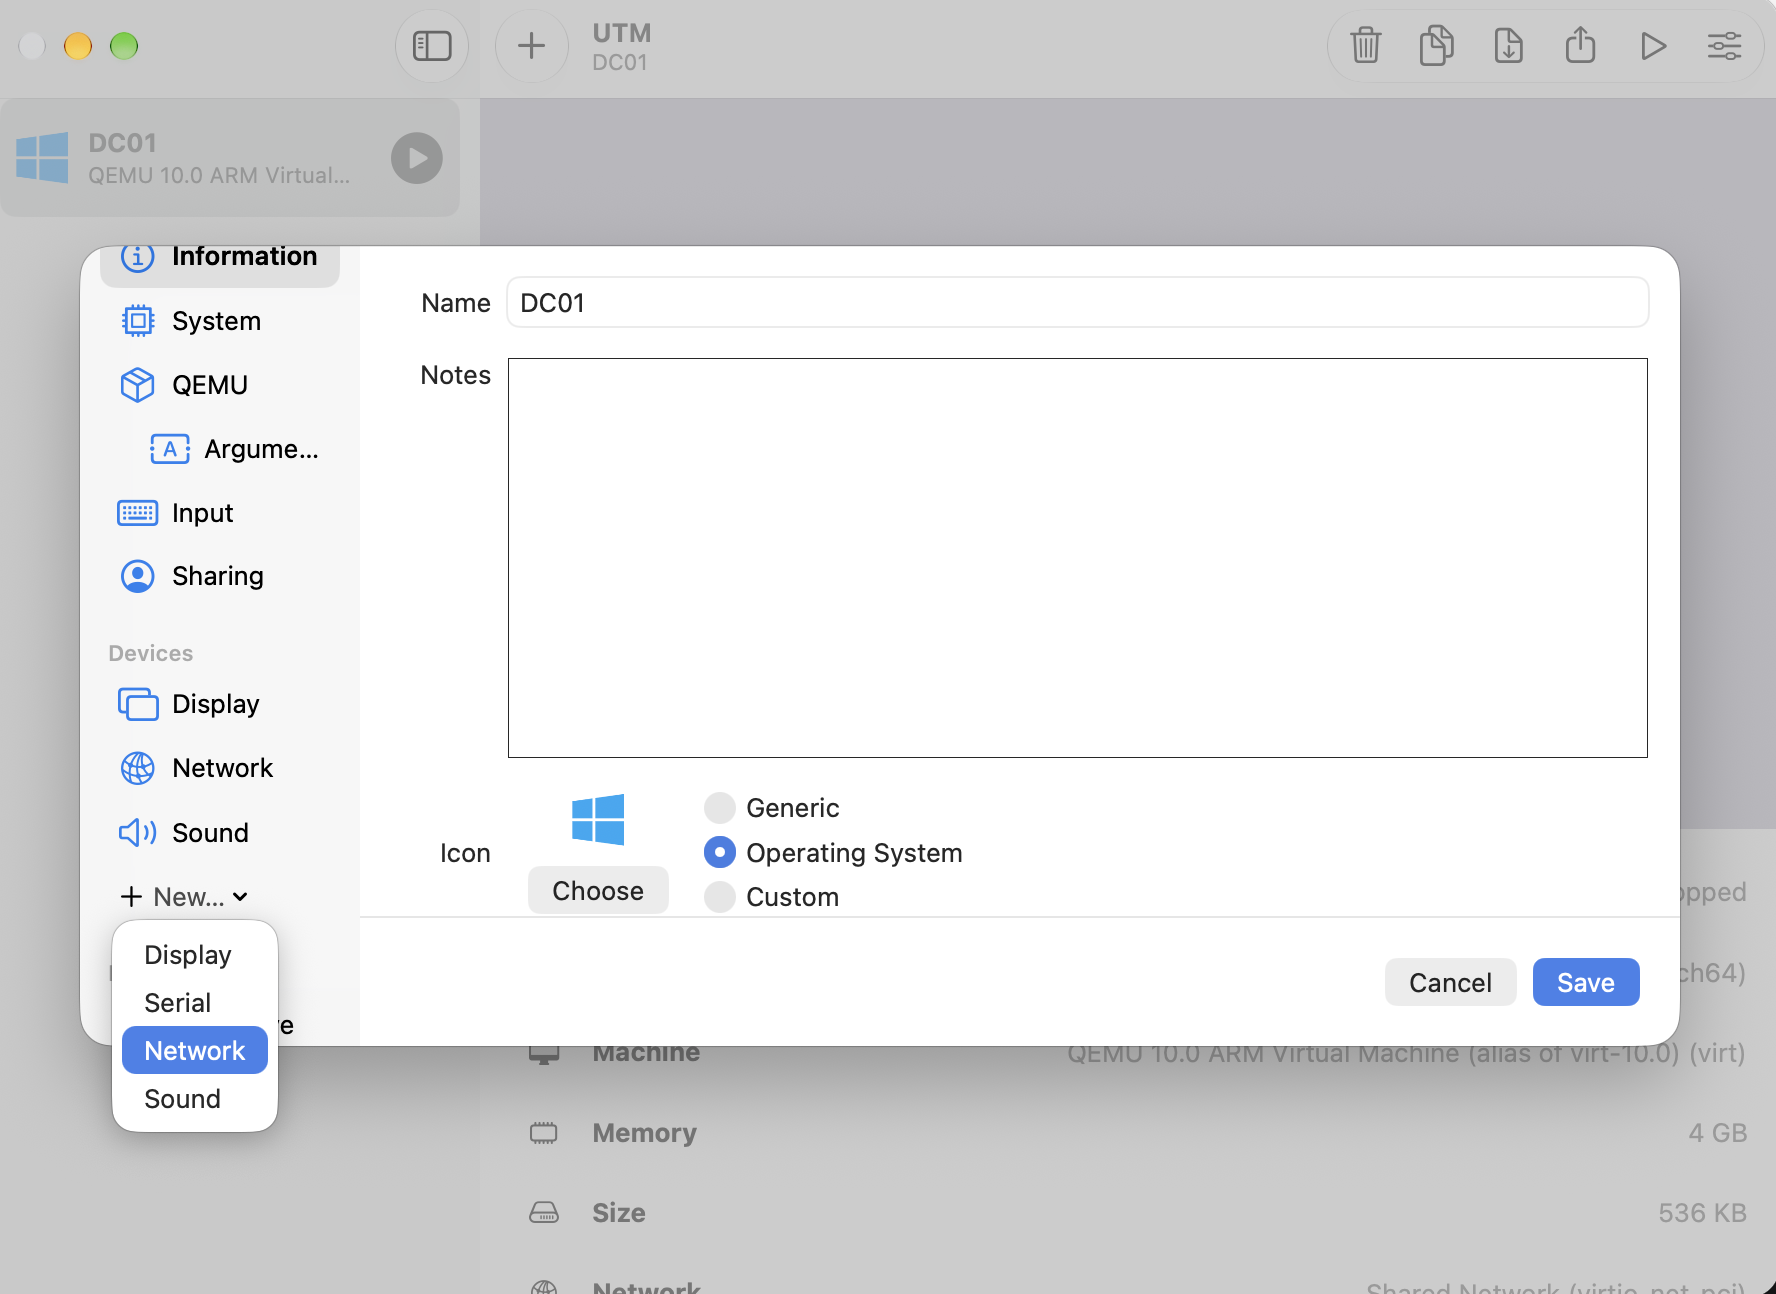
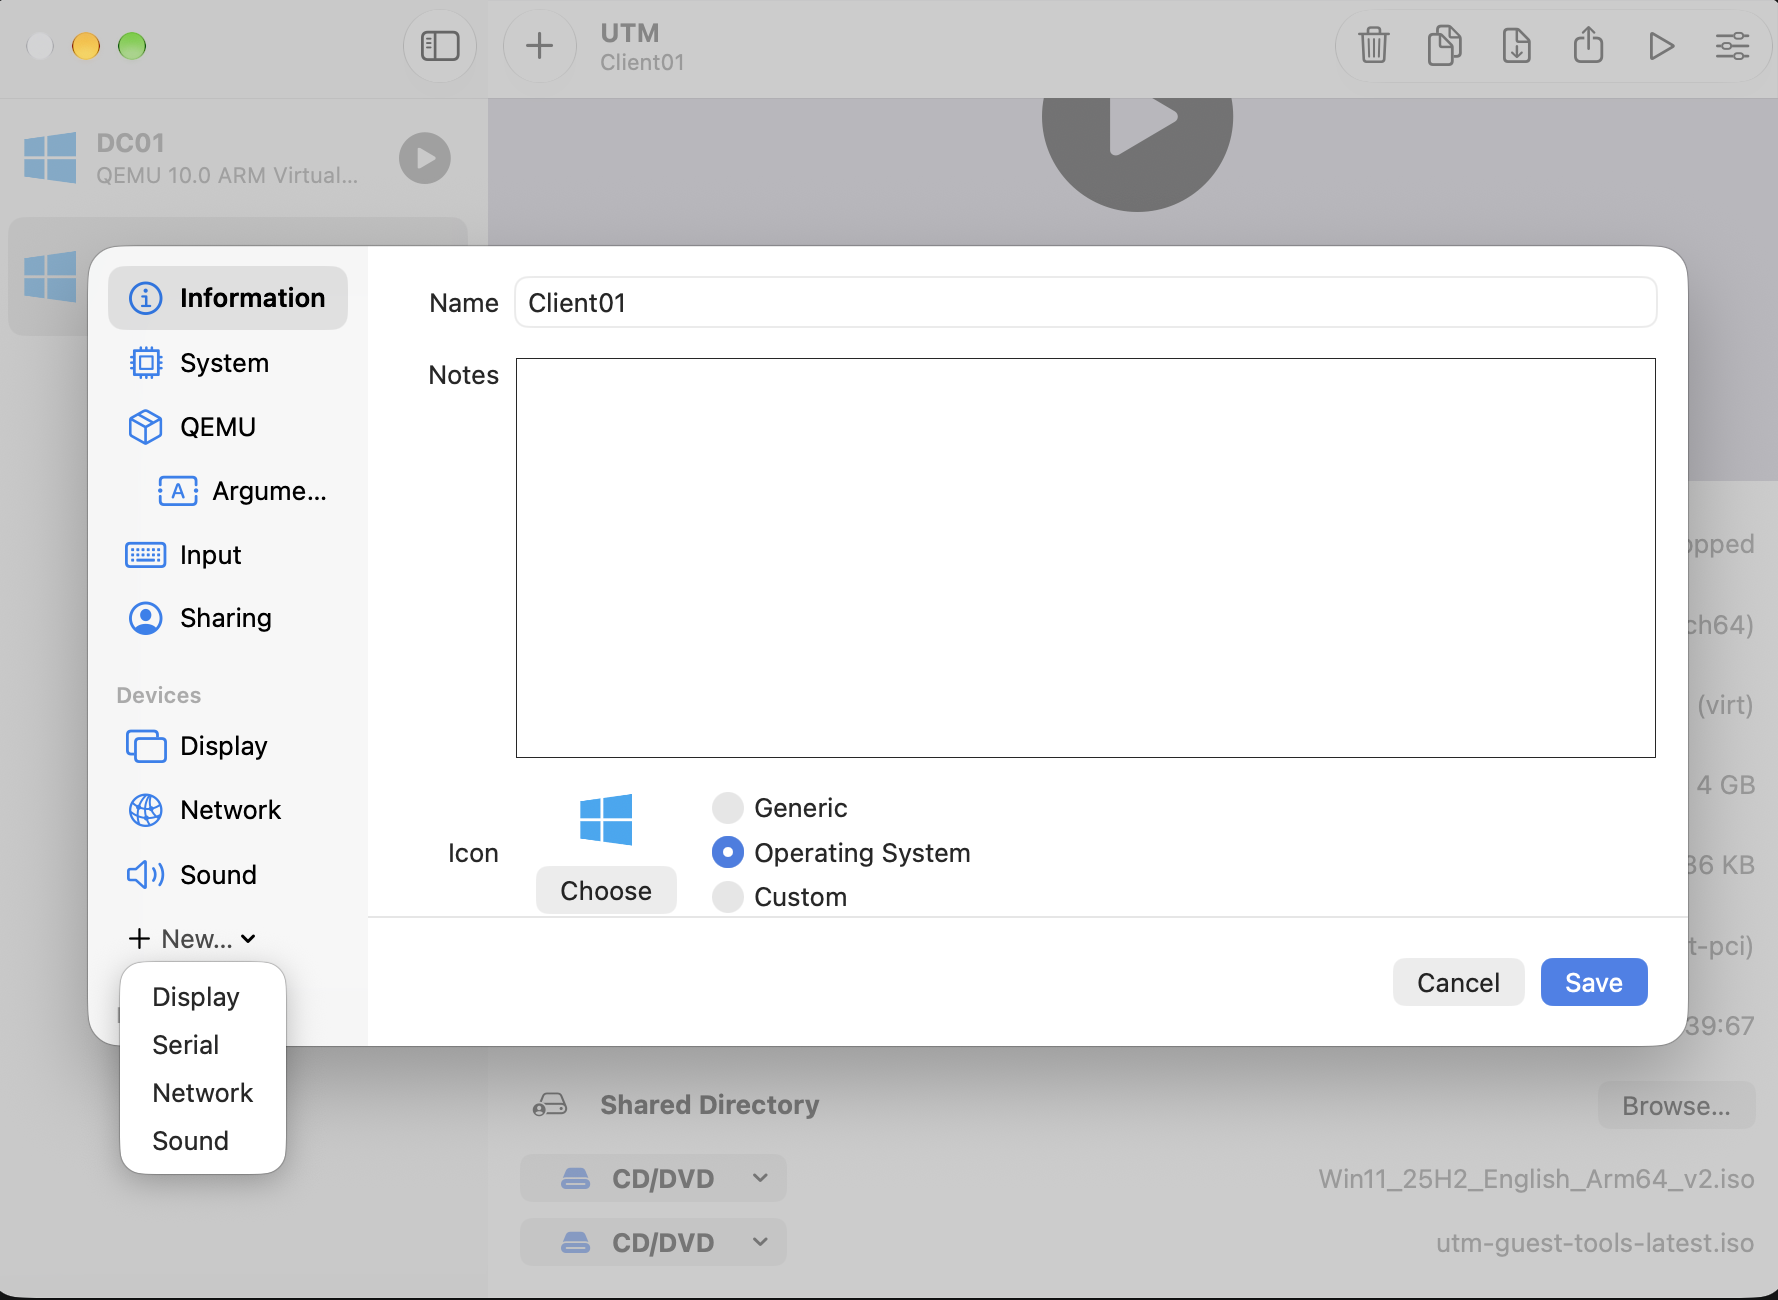
Update README

diff --git a/README.md b/README.md
@@ -16,6 +16,7 @@ This project demonstrates the process of creating and setting up an Active Direc
 ## VM Creation
 Both virtual machines were created using UTM with nearly identical hardware specifications, with the exception of storage capacity. The virtual machines also differ in the operating system ISO used for installation and their respective machine names, with one configured as the Domain Controller and the other as the Windows client. The following steps were performed to create each machine:
 
+
 ### Domain Controller
 
 1. Select **Create a New Virtual Machine**.
@@ -73,29 +74,32 @@ The same VM creation process was used for the Windows client, with differences i
 ## Server Configuration
 
 ### Windows Installation
-Once the virtual machine was configured, Windows Server 2025 was installed using the default installation settings. Additionally, the UTM Windows Guest Tools were installed to improve performance and display resolution, although their installation is not required.
+Once the virtual machine was configured, `Windows Server 2025` was installed using the default installation settings. Additionally, the UTM Windows Guest Tools were installed to improve performance and display resolution, although their installation is not required.
 
-### Rename Server
-After installing Windows Server 2025, the server was assigned a hostname that identifies its role as the Domain Controller. To avoid confusion, the server was given the same name as the virtual machine it is operating in, `DC01`.
+
+### Server Hostname Configuration
+After installing Windows, the server was assigned a hostname that identifies its role as the Domain Controller. To avoid confusion, the server was given the same name as the virtual machine it is operating in, `DC01`.
 
 The hostname was configured through **Server Manager → Local Server → Computer name → Change**. After renaming the server, the computer was restarted to apply the changes made. 
 
-![Server Rename](/images/server-configuration/server-namechange/01-server-rename.png)
+![Server rename](/images/server-configuration/server-namechange/01-server-rename.png)
+
 
 ### Network Configuration 
 
 Following the assignment of a new hostname, the server was configured with a static IP address. The network configuration was accessed through **Server Manager → Local Server** by selecting **IPv4 address assigned by DHCP, IPv6 enabled** next to **Ethernet**.
 
 ![Network connections window](/images/server-configuration/network-config/01-network-connections.png)
-*As mentioned earlier, the virtual machine was configured with two network adapters: one for communication between the devices and another for internet access. Ethernet 2 was configured with the **Host Only** network mode and was therefore selected for the static IP configuration.*
+*As mentioned earlier, the VM was configured with two network adapters: one for communication between the virtual machines and another for internet access. The connection labeled "Unidentified network" corresponds to the **Host Only** network adapter. Therefore, the **Ethernet 2** adapter was selected for static IP configuration.* 
 
-By right-clicking **Ethernet 2** and navigating to **Properties → Internet Protocol Version 4 (TCP/IPv4)→ Properties**, the server was configured with the following network settings:
-- **IP address:** `192.168.64.10`
+By right-clicking **Ethernet 2** and navigating to **Properties → Internet Protocol Version 4 (TCP/IPv4) → Properties**, the server was configured with the following network settings:
+- **IP address:** `192.168.108.10`
 - **Subnet Mask:** `255.255.255.0`
 - **DNS:** `127.0.0.1` 
 
-![Ethernet properties window](/images/server-configuration/network-config/02-static-ip.png)
+![IPv4 properties window](/images/server-configuration/network-config/02-static-ip.png)
 *To ensure the changes were applied, the server was restarted.*
+
 
 ### Active Directory Installation
 
@@ -108,11 +112,14 @@ By selecting **Active Directory Domain Services → Add Features** and proceedin
 ![AD role selection](/images/server-configuration/ad-config/02-role-selection.png)
 ![AD role installation](/images/server-configuration/ad-config/03-role-installation.png)
 
+
+### Domain Controller Deployment
+
 The next step after role installation was to promote the server to a domain controller. Without closing the wizard, **Promote the server to a domain controller** was clicked.
 
 ![Installation complete / promote AD server](/images/server-configuration/ad-config/04-promote-server.png)
 
-For the deployment operation, **Add a new forest** was chosen along with the domain name `adlab.test` before clicking `Next`.
+For the deployment operation, **Add a new forest** was chosen along with the domain name `adlab.local` before clicking `Next`.
 
 ![Add domain forest](/images/server-configuration/ad-config/05-add-forest.png)
 
@@ -120,29 +127,62 @@ A password was set for Directory Services Restore Mode (DSRM) before continuing 
 
 ![Set DSRM password](/images/server-configuration/ad-config/06-dsrm-password.png)
 
-### Active Directory Deployment
 
-#### Organizational Unit Creation
+## Client Configuration
 
-With Active Directory installed, the focus shifted to its management through the creation of users, groups, and organizational units. **Active Directory Users and Computers** was accessed through **Server Manager → Tools → Active Directory Users and Computers**, where the newly created domain and its existing organizational units were displayed.
+### Windows Installation
+Like the Windows Server installation, the default settings were used, with the exception of selecting `Windows 11 Pro` as the installation image. The UTM Windows Guest Tools were also installed on the client, but as mentioned earlier, there installation is not a requirement.
 
-![Domain OU window](/images/server-configuration/ad-deployment/01-domain-ou-window.png)
+![Windows image selection](/images/client-configuration/01-image-selection.png)
 
-By right-clicking `adlab.test` and selecting **New → Organizational Unit**, an OU named **IT** was created.
 
-![IT OU creation](/images/server-configuration/ad-deployment/02-ou-name.png)
+### Network Configuration
+Once the `Windows 11` installation was complete, the client was configured to use the Domain Controller's DNS address. By navigating to **Control Panel → Network and Internet → Network and Sharing Center → Change adapter settings**, the **Network Connections** window was opened.
+
+![Network connections window](/images/client-configuration/02-network-connections-window.png)
+
+By right-clicking **Ethernet 2** and navigating to **Properties → Internet Protocol Version 4 (TCP/IPv4) → Properties**, the client was configured to use the DNS address `192.168.108.10`.
+
+![Client IPv4 properties window](/images/client-configuration/03-dns-config.png)
+
+
+### Client Hostname Configuration
+The hostname `Client01` was configured through **Control Panel → System and Security → System → Rename This PC**. To ensure the changes made were applied, the computer was restarted after renaming the client. 
+
+![Client rename](/images/client-configuration/04-rename-client.png)
+
+
+### Client Domain Join
+After logging back in, `Client01` was added to the domain `adlab.local` by navigating to **Control Panel → System and Security → System → Domain or workgroup → Change...**.
+
+![Add client to domain](/images/client-configuration/05-add-to-domain.png)
+![Domain added verification](/images/client-configuration/06-domain-add-verification.png)
+
+
+## Active Directory Management
+
+### Organizational Unit Creation
+
+With `Client01` configured, the focus shifted towards Active Directory management through the creation of OUs, users, and groups. **Active Directory Users and Computers** was accessed through **Server Manager → Tools → Active Directory Users and Computers**, where the newly created domain and its existing organizational units were displayed.
+
+![Domain OU window](/images/server-configuration/ad-management/01-domain-ou-window.png)
+
+By right-clicking `adlab.local` and selecting **New → Organizational Unit**, an OU named **IT** was created.
+
+![IT OU creation](/images/server-configuration/ad-management/02-ou-name.png)
 
 Following this, the same process was performed on the `IT` organizational unit,  creating two sub-OUs: `Computers` and `Users`.
 
-![Sub-OU creation](/images/server-configuration/ad-deployment/03-sub-ous.png)
+![Sub-OU creation](/images/server-configuration/ad-management/03-sub-ous.png)
 
-Two additional OUs, `Finance` and `HR`, were created under the `adlab.test` domain using the same sub-OU structure.
+Two additional OUs, `Finance` and `HR`, were created under the `adlab.local` domain using the same sub-OU structure.
 
-![Domain AD Structure](/images/server-configuration/ad-deployment/04-ad-structure.png)
+![Domain AD Structure](/images/server-configuration/ad-management/04-ad-structure.png)
 
-#### User Account Creation
 
-After setting up the Active Directory structure of `adlab.test`, users were created in their respective OUs. The **Users** OUs were selected, and **New → User** was chosen to create each account. The table below displays all accounts created.
+### User Account Creation
+
+After setting up the Active Directory structure of `adlab.local`, users were created in their respective OUs. The **Users** OUs were selected, and **New → User** was chosen to create each account. The table below displays all accounts created.
 
 | User | OU      | User logon name |
 |------|---------|-----------------|
@@ -151,24 +191,35 @@ After setting up the Active Directory structure of `adlab.test`, users were crea
 | Mary | Finance | mwilson         |
 | Ryan | HR      | rjohnson        |
 
-![Create user wizard](/images/server-configuration/ad-deployment/05-create-user.png)
-![User password creation](/images/server-configuration/ad-deployment/06-user-password.png)
+![Create user wizard](/images/server-configuration/ad-management/05-create-user.png)
+![User password creation](/images/server-configuration/ad-management/06-user-password.png)
 *Since this is a lab environment, **User must change password at next logon** was left unchecked. In a real-world environment, it is generally recommended that users change the password assigned by the administrator at their first logon.*
 
-#### Group Creation and User Assignment
+
+### Group Creation and User Assignment
 
 To simplify permission management, security groups were created and users were assigned to the appropriate groups. By right-clicking `IT` and selecting **New → Group**, a group was created with the following configurations:
 - **Group name:** `IT Support`
 - **Group scope:** `Global`
 - **Group Type:** `Security`
 
-![IT Support group creation](/images/server-configuration/ad-deployment/07-ITSupport-group.png)
+![IT Support group creation](/images/server-configuration/ad-management/07-ITSupport-group.png)
 
 After creating the `IT Support` group, one of the recently created users was added. By double-clicking the user, navigating to **Member Of → Add...**, entering `IT Support`, and selecting **Check Names**, the user `Adam` was successfully added to the group.
 
-![Add user to IT Support group](/images/server-configuration/ad-deployment/08-IT-add-to-group.png)
+![Add user to IT Support group](/images/server-configuration/ad-management/08-IT-add-to-group.png)
 
 The same process was repeated with the `HR` OU, creating the `HR Staff` group and assigning `Ryan` as a member.
 
-![HR Staff group creation](/images/server-configuration/ad-deployment/09-HRStaff-group.png)
-![Add user to HR Staff group](/images/server-configuration/ad-deployment/10-HR-add-to-group.png)
+![HR Staff group creation](/images/server-configuration/ad-management/09-HRStaff-group.png)
+![Add user to HR Staff group](/images/server-configuration/ad-management/10-HR-add-to-group.png)
+
+
+### Client Computer Addition
+
+In addition to assigning users to security groups, computer accounts were organized into organizational units that reflect their respective departments. Since the lab contains only one client virtual machine, `Client01` was designated as a computer belonging to the `IT` department. By navigating to the default `Computers` OU, right-clicking `Client01`, and selecting **Move**, the computer account was moved to the `Computers` OU under `IT`.
+
+![Default computers OU window](/images/server-configuration/ad-management/11-default-computer-ou.png)
+![Move computer window](/images/server-configuration/ad-management/12-move-computer.png)
+
+## Group Policy
